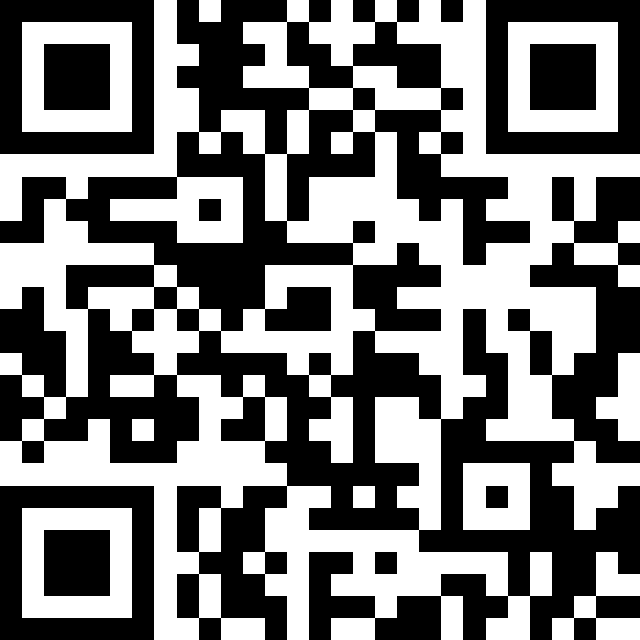
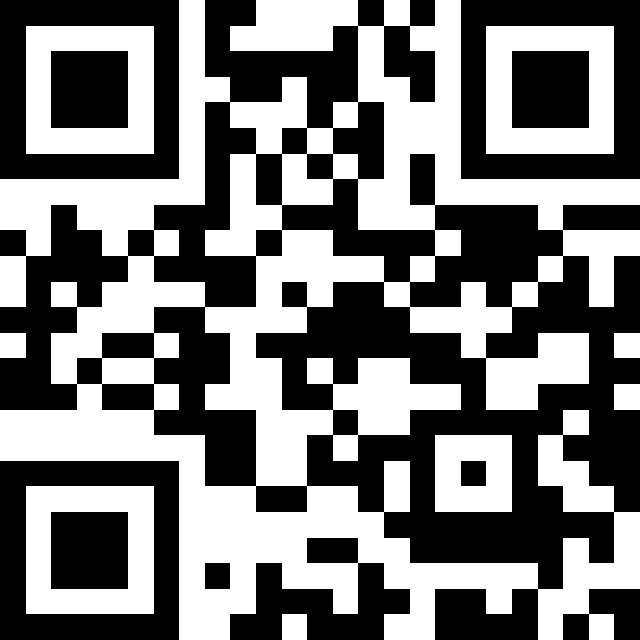
added time and updated qrcode to jotform

diff --git a/src/routes/+page.svelte b/src/routes/+page.svelte
@@ -161,7 +161,7 @@
 						<h2 class="text-white text-6xl leading-none mb-5 h2 !font-normal">{slide.name}</h2>
 						<p class="text-white text-4xl mb-5">{slide.strapline}</p>
 						<p class="text-white text-2xl flex items-center">
-							{formatDate(slide.upcomingDate)}<span class="px-2" />
+							{formatDate(slide.upcomingDate)} {slide.eventUpcomingTime}<span class="px-2" />
 							<svg xmlns="http://www.w3.org/2000/svg" width="32" height="32" fill="none"
 								><path
 									fill="#fff"
